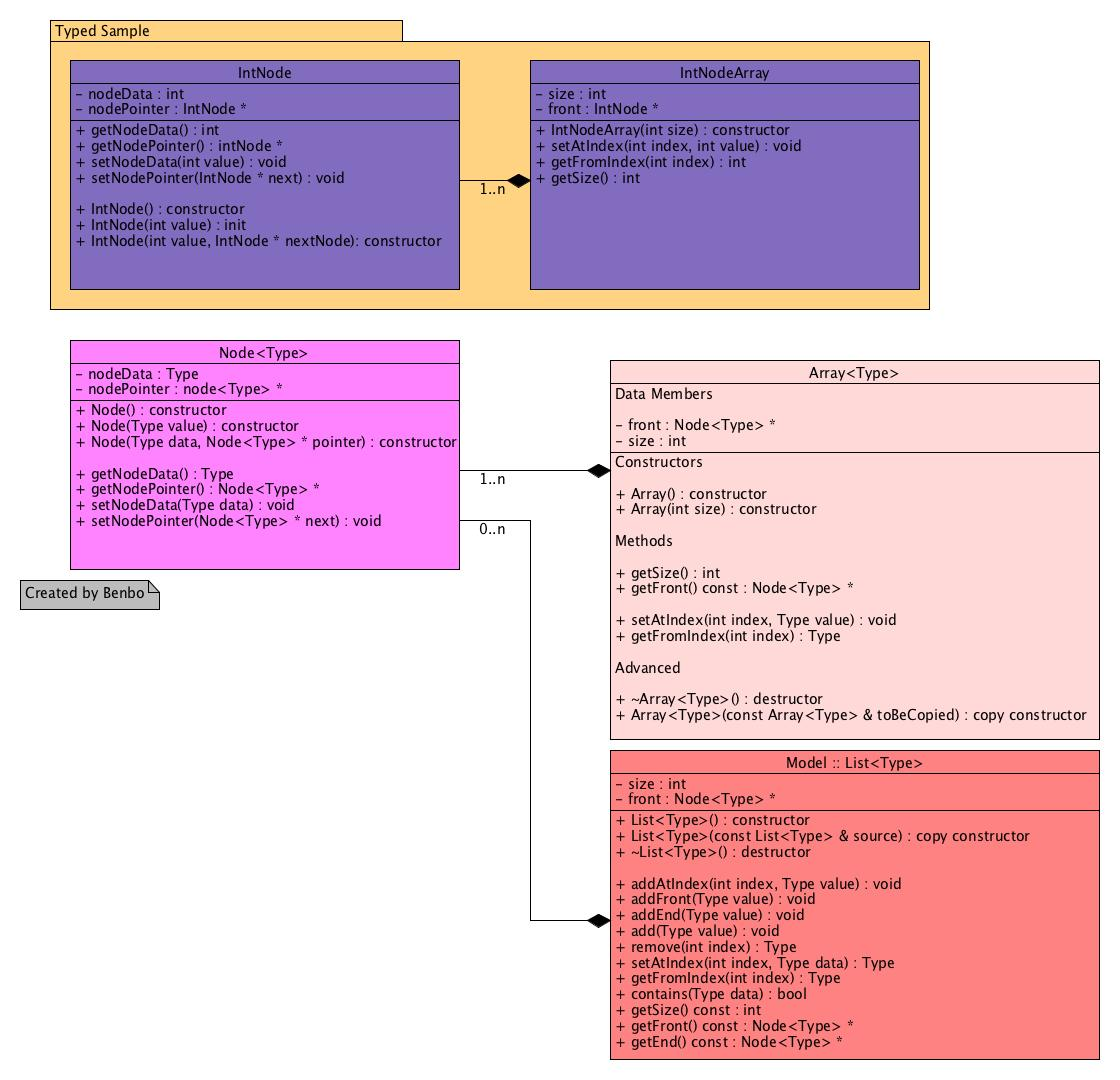
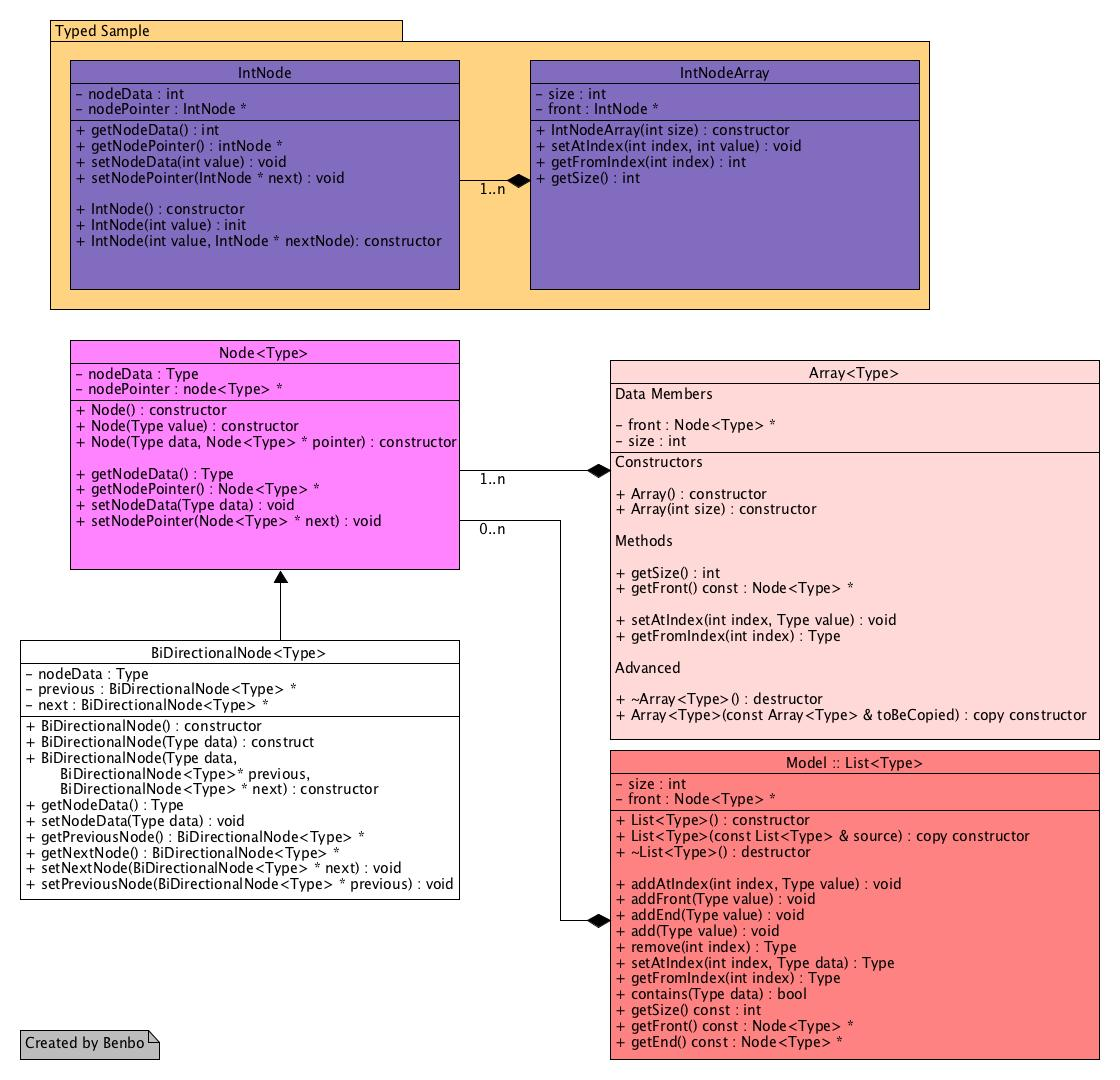
added BiDirectionalNode.hpp

Changed region(s): [[0.0, 0.5194, 0.4062, 0.825], [0.0, 0.9472, 0.1562, 1.0]]

diff --git a/Model/BiDirectionalNode.hpp b/Model/BiDirectionalNode.hpp
@@ -1,0 +1,36 @@
+//
+//  BiDirectionalNode.hpp
+//  MegaData
+//
+//  Created by Tschetter, Benjamin on 2/27/17.
+//  Copyright © 2017 Tschetter, Benjamin. All rights reserved.
+//
+
+#ifndef BiDirectionalNode_h
+#define BiDirectionalNode_h
+
+template <class Type>
+class BiDirectionalNode : public Node<Type>
+{
+private:
+    BiDirectionalNode<Type> * previous;
+    BiDirectionalNode<Type> * next;
+    Type nodeData;
+public:
+    BiDirectionalNode();
+    BiDirectionalNode(Type data);
+    BiDirectionalNode(Type data, BidirectionalNode<Type> * previous, BiDirectionalNode<Type> * next);
+}
+
+template<class Type>
+BiDirectionalNode<Type> :: BiDirectionalNode() : Node()
+{
+    
+}
+
+BiDirectionalNode<Type> :: BiDirectionalNode() : Node<Type>(data)
+{
+    
+}
+
+#endif /* BiDirectionalNode_h */
